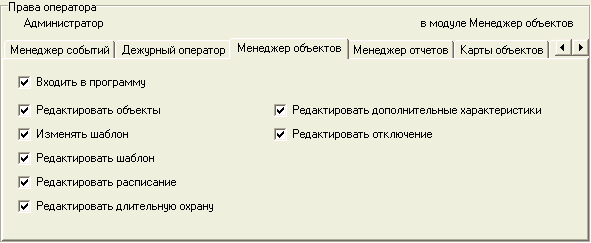
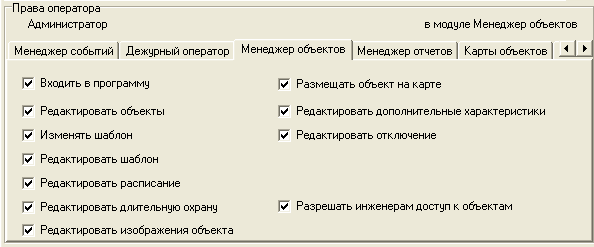
текст "Изображения объекта" отредактирован с учетом пожеланий, в описание модуля "Менеджер персонала" добавлено право изменять изображения объекта

diff --git a/russian/05-object-manager.md b/russian/05-object-manager.md
@@ -92,17 +92,19 @@
 
 ### Изображения объекта
 
-Кнопка "Изображения объекта..." позволяет загрузить с жесткого диска в Облако изображения выбранного для редактирования объекта в форматах PNG и JPEG. Данные изображения используются в приложении "Тревога в ГБР" для предоставления сотрудникам охранных предприятий информации о виде объекта и наиболее удобных подъездах к нему. 
+В модуле "Менеджер объектов" оператор, обладающий правом "Редактировать изображения объекта", может загрузить с жесткого диска в Облако или удалить из Облака изображения выбранного объекта. Приложение "Тревога в ГБР" отображает хранящиеся в Облаке изображения объекта, с которого поступил сигнал тревоги, для предоставления сотрудникам охранных предприятий информации о виде объекта и наиболее удобных подъездах к нему. 
 
-При нажатии кнопки "Изображения объекта..." открывается одноименное окно, предназначенное для загрузки изображений, а также для просмотра и удаления уже закачанных графических файлов. 
+Для работы с изображениями следует, не вызывая режим редактирования объекта, нажать кнопку "Изображения объекта...". При этом должно открыться одноименное окно, предназначенное для загрузки изображений, а также для просмотра и удаления уже закачанных графических файлов. 
 
-Важно: передача изображений в Облако возможна при выполненном подключении к Облаку и открытых портах 80 и 443 протокола TCP. Размер загружаемого изображения не должен превышать 5 МБ.
+Важно: передача изображений в Облако возможна при выполненном подключении к Облаку и открытых портах 80 и 443 протокола TCP для компьютера, на котором запущен модуль "Менеджер объектов".
 
-Выбрать одно или несколько изображений для загрузки можно с помощью кнопки "Выбрать" в адресной строке "Файлы". После этого следует нажать кнопку "Отправить". Индикатор выполнения в поле "Прогресс" отобразит статус загрузки выбранных изображений. Закрывать окно "Изображения объекта" или выбирать новые графические файлы для закачивания нельзя до окончания загрузки предыдущих.
+С помощью кнопки "Выбрать" в адресной строке "Файлы" можно выбрать для загрузки одно или несколько изображений объекта, информационный объем которых не превышает 5 МБ, в форматах PNG и JPEG. Для того чтобы быстрее найти их на жестком диске и правильно сохранить в Облаке, лучше поместить изображения объекта в папке, имя которой соответствует номеру объекта, либо присвоить файлам с изображениями имена, начинающиеся с номера объекта. 
+
+После выбора графических файлов следует нажать кнопку "Отправить", при этом размер изображений будет автоматически приведен к оптимальному для отображения на планшете в мобильном приложении "Тревога в ГБР". Индикатор выполнения в поле "Прогресс" отобразит статус загрузки выбранных изображений. Закрывать окно "Изображения объекта" или выбирать новые графические файлы для закачивания нельзя до окончания загрузки предыдущих.
 
 ![Вкладка «Объект»: изображения объекта][id-05-04-01]
 
-Для удаления загруженного изображения необходимо навести курсор на его миниатюру в окне "Изображения объекта" и кликнуть на появляющемся при этом значке "Корзина".
+Перемещение или удаление с жесткого диска сохраненных в Облаке графических файлов не приводит к их потере в Облаке. Для удаления загруженного изображения из Облака необходимо навести курсор на его миниатюру в окне "Изображения объекта" и кликнуть на появляющемся при этом значке "Корзина".
 
 ## Вкладка «Разделы»
 

diff --git a/russian/07-personnel-manager.md b/russian/07-personnel-manager.md
@@ -62,7 +62,9 @@
 
 * «Редактировать длительную охрану» — разрешение на изменение параметров длительной охраны объекта. Если для объекта включена режим длительной охраны, то при попытке снять объект с охраны «Центр охраны» создаст системное событие (тревогу).
 
-* «Редактировать дополнительные характеристики» — разрешение изменение значений дополнительных характеристик объекта. В дополнительных характеристиках объекта может храниться важная информация.
+* «Редактировать изображения объекта» - разрешение на изменение изображений объекта. Данные изображения используются в приложении "Тревога в ГБР" для предоставления более полной информации об объекте.
+
+* «Редактировать дополнительные характеристики» — разрешение на изменение значений дополнительных характеристик объекта. В дополнительных характеристиках объекта может храниться важная информация.
 
 * «Редактировать отключение» — разрешение на изменение параметров отключения объекта. Для отключенных объектов «Центр охраны» выполняет автоматическую отмену тревог, не привлекая к ним внимания дежурного оператора.
 
